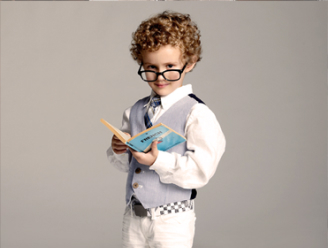
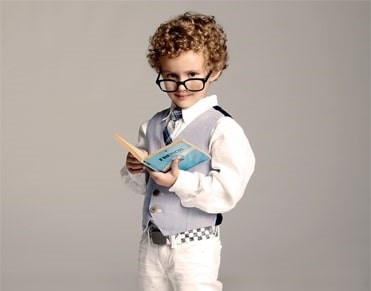
fix images

diff --git a/css/blocks/product.css b/css/blocks/product.css
@@ -32,7 +32,7 @@
 }
 .product-tile__img {
     height: 100%;
-    object-fit: fill;
+    object-fit: cover;
     width: 100%;
 }
 .product-tile__info {
